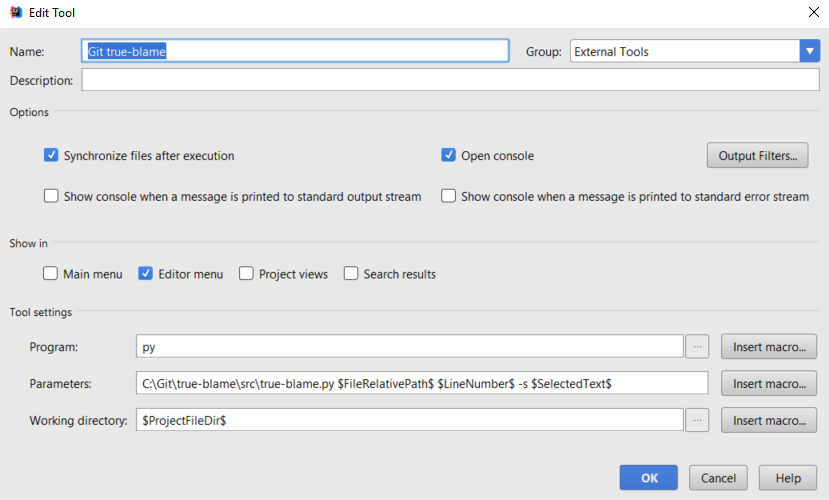
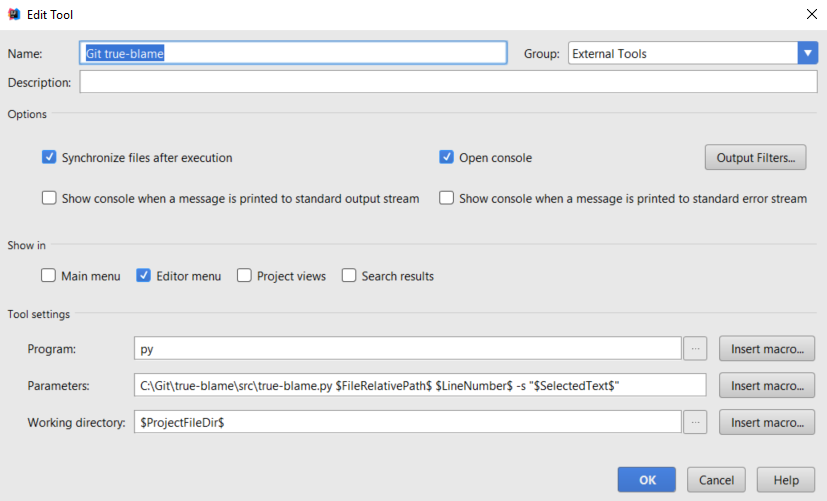
Update documentation to account for limitation in IntelliJ

diff --git a/README.md b/README.md
@@ -35,8 +35,12 @@ Additionally hook the function tb() to your build / ant-all / gw workflow to alw
 4. Under `Show in`, uncheck all options except `Editor menu`.
 5. Set the following under `Tool settings`:
    - For Program: py
-   - For Parameters: (full path to true-blame.py (in `src`)) $FileRelativePath$ $LineNumber$ -s $SelectedText$
+   - For Parameters: (full path to true-blame.py (in `src`)) $FileRelativePath$ $LineNumber$ -s "$SelectedText$"
    - Working directory: $ProjectFileDir$
 6. Optionally, create another External Tool to add an option to perform in reverse, adding one more to the parameters: -r
 
 Now you can run True Blame from IntelliJ by using the right-click context menu for selected text!
+
+### Tip: You can add your own shortcuts for the tools you created for True Blame by going to Keymap -> External Tools to find them, and right-clicking them
+
+### **Warning:** if the selected text in IntelliJ contains quotation marks, then IntelliJ will automatically remove these before passing them as a parameter. If you must use a substring containing quotation marks with True Blame, then you may need to create yet another External Tool option and replace the $SelectedText$ parameter with a "$Prompt$" parameter. This will open a prompt where you can wrap the desired substring in quotes and escape the quotation marks yourself, with less limitations (but be sure to still keep the cursor on the appropriate line!).
